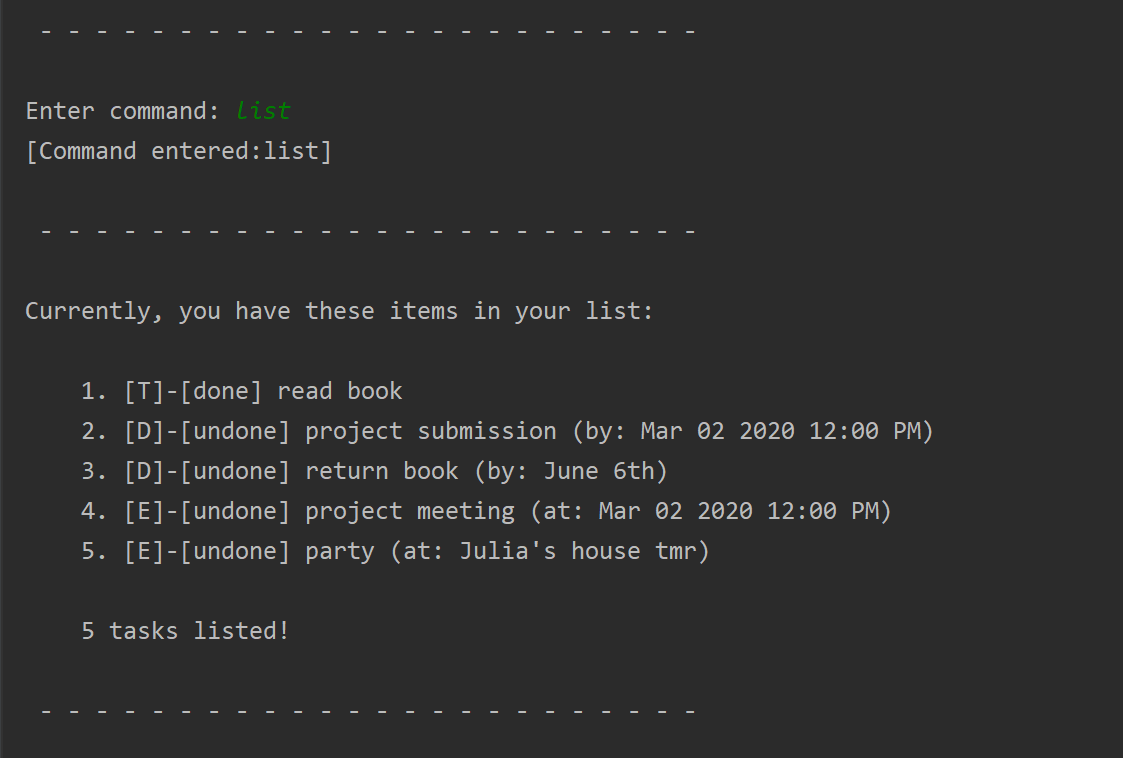
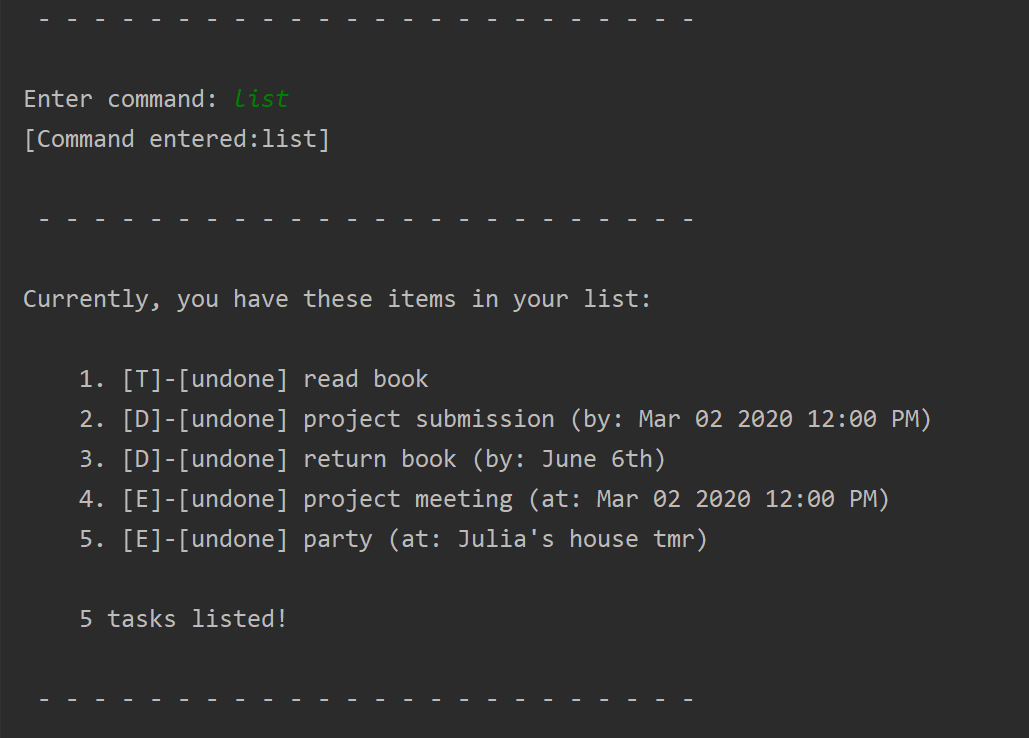
Change list image

diff --git a/docs/README.md b/docs/README.md
@@ -1,12 +1,34 @@
-# User Guide for Jarvis
+# :calendar:  Jarvis Task Manager - User Guide 
 
-## Features 
+* [1. Introduction](#1-introduction)
+* [2. Features](#2-features)
+    + [2.1. Adding a task](#21-add-a-task)
+    + [2.2. Marking a task done](#22-mark-task-as-done)
+    + [2.3. Listing all tasks](#23-list)
+    + [2.4. Find task by keyword](#24-find)
+    + [2.5. Delete a task](#25-delete)
+    + [2.6. Filter list by category](#26-filter)
+    + [2.7. Clear all tasks](#27-clear)
+    + [2.8. Viewing Help](#28-help)
+- [3. Command Summary](#3-command-summary)       
+     
 
-### Feature 1. Add a task
+## 1. Introduction
 
-## Usage
+Jarvis is for those who *prefer to use a desktop app for managing their tasks*. More importantly, Jarvis is *strictly optimized for those who prefer to work with a Command Line Interface* (CLI). So, if you can type fast, you can rely on Jarvis to get your task management done much quicker than many other traditional apps out there. Enjoy! 
 
-### `todo` - Adds a todo task
+## 2. Features
+
+*Command Format*
+* Words in `UPPER_CASE` are the parameters to be supplied by the user e.g. in `todo [DESCRIPTION]`, `DESCRIPTION` is a parameter which can be used as `todo grab breakfast`.
+
+&nbsp;
+
+### 2.1 Add a task
+With Jarvis, you can add 3 different types of tasks: todo, deadline and event.
+
+
+#### 2.1.1 `todo` - Adds a todo task
 
 A todo type of task will be added to the current task list.
 
@@ -18,11 +40,11 @@ Example of usage:`todo read book`
 
 Expected outcome:
 
-<img src ="images/todo_example.png" width= "250">
+<img src ="images/todo_example.png" width = "400">
 
 &nbsp;
 
-### `deadline` - Adds a deadline task
+#### 2.1.2 `deadline` - Adds a deadline task
 
 A deadline type of task will be added to the current task list.
 
@@ -46,18 +68,18 @@ Example of usage:
 
 Expected outcome:
 
-<img src ="images/deadline_example.png" width= "350">
+<img src ="images/deadline_example.png" width= "400">
 
 Example of usage:
 `deadline return book /by June 6th`
 
 Expected outcome:
 
-<img src ="images/deadline_example1.png" width= "350">
+<img src ="images/deadline_example1.png" width="400">
 
 &nbsp;
 
-### `event` - Adds a event task
+#### 2.1.3 `event` - Adds a event task
 
 An event type of task will be added to the current task list.
 
@@ -81,11 +103,230 @@ Example of usage:
 
 Expected outcome:
 
-<img src ="images/event_example.png" width= "350">
+<img src = "images/event_example.png" width ="400">
 
 Example of usage:
 `event party /at Julia's house tmr`
 
 Expected outcome:
 
-<img src ="images/event_example1.png" width= "350">
+<img src = "images/event_example1.png" width = "400">
+
+&nbsp;
+
+### 2.2 Mark task as done
+#### `done` - Mark done
+Marks specified task as done.
+
+Format:
+ `done [INDEX]`
+
+> - Deletes the item at the specified index.
+
+>- The index refers to the index number shown in the displayed task list.
+
+>- The index **must** be a positive integer 1, 2, 3, …
+
+Example of usage:
+`done 1`
+
+Expected outcome:
+
+<img src= "images/done_example.png" width = "400">
+
+&nbsp;
+
+
+### 2.3 List
+#### `list` - Displays all tasks in list
+
+Format:
+ `list`
+
+
+Example of usage:
+`list`
+
+Expected outcome:
+
+<img src = "images/list_example.png" width = "400">
+
+&nbsp;
+
+### 2.4 Find 
+#### `find` - Find tasks that match keyword
+Find all tasks that match the given keyword
+
+Format:
+ `find [KEYWORD]`
+
+> - `[KEYWORD]` is matched with task `description`.
+> - Tasks with descriptions that have the `[KEYWORD]` are displayed. 
+
+
+Example of usage:
+`find book`
+
+Expected outcome:
+
+<img src = "images/find_example.png" width = "400">
+
+&nbsp;
+
+### 2.5 Delete
+#### `delete` - Deletes task from list
+Deletes specified task from list.
+
+Format:
+ `delete [INDEX]`
+
+> - Deletes the item at the specified index.
+
+>- The index refers to the index number shown in the displayed task list.
+
+>- The index **must** be a positive integer 1, 2, 3, …
+
+Example of usage:
+`delete 1`
+
+Expected outcome:
+
+<img src = "images/delete_example.png" width "400">
+
+&nbsp;
+
+### 2.6 Filter
+Allows you to filter your task list by 3 different categories: task type, done status and date.
+
+
+#### `filter` - Filters list according to category
+
+The task list is filtered according to the given category.
+
+Format: `filter [category]`
+> - Accepted values for categories include: `"todo"`,`"event"`,`"deadline"`,`DATE`
+>   - `DATE` **must** follow format: Month-Date
+>     - e.g. Mar 02
+
+
+Example of usage:`filter todo`
+> - Displays all todo tasks in list
+
+
+Expected outcome:
+
+<img src #"images/filter_todo_example.PNG" width# "400">
+
+
+Example of usage:`filter deadline`
+> - Displays all deadline tasks in list
+
+
+Expected outcome:
+
+<img src = "images/filter_deadline_example.PNG" width = "400">
+
+
+Example of usage:`filter event`
+> - Displays all event tasks in list
+
+
+Expected outcome:
+
+<img src = "images/filter_event_example.PNG" width = "400">
+
+Example of usage:`filter DATE`
+> - Displays all deadlines/events occurring on a specific date. 
+
+| :bulb: | Jarvis is smart enough to list events/ deadlines occurring on the same day in chronological order! |
+| ------------- | ------------- |
+
+&nbsp;
+
+
+### 2.7 Clear
+#### `clear` - Clear all tasks in list
+Clears and deletes **all** task in list
+
+Format:
+ `clear`
+
+
+Example of usage:
+`clear`
+
+Expected outcome:
+
+<img src = "images/clear_example.PNG" width =  "400">
+
+&nbsp;
+
+
+### 2.8 Help
+#### `help` - Displays a help list
+The help list contains information about all accepted commands.
+
+It will be displayed if the input command is invalid.
+
+Format:
+ `help`
+
+
+Example of usage:
+`help`
+
+Expected outcome:
+
+<img src #"images/help.PNG" width# "400">
+
+&nbsp;
+
+
+### 2.9 Exit Program
+#### `bye` - Exits the program
+Saves task list to a local storage file in the computer and exits program.
+
+
+Format:
+ `bye`
+
+
+Example of usage:
+`bye`
+
+Expected outcome:
+
+<img src = "images/bye.png" width = "400">
+
+&nbsp;
+
+## 3. Command Summary 
+
+* *Todo* : `todo DESCRIPTION` \
+e.g. `todo read book`
+
+* *Deadline* : `deadline DESCRIPTION /by [DUE DATE & TIME]` \
+e.g. `deadline project submission /by 2020-03-02 1200`   **OR**   `deadline return book /by June 6th`
+
+* *Event* : `event DESCRIPTION /by [EVENT TIME & VENUE]` \
+e.g. `event project meeting /at 2020-03-02 1200` **OR** `event party /at Julia's house tmr`
+
+* *Mark* : `done [INDEX]` \
+e.g. `done 1`
+
+* *List* : `list` 
+
+* *Find* : `find KEYWORD` \
+e.g. `find book`
+
+* *Delete* : `delete [INDEX]` 
+e.g. `delete 3`
+
+* *Filter* : `filter [CATEGORY]` \
+e.g. `filter todo` **OR** `filter deadline` **OR** `filter event` **OR** `filter Mar 02`
+
+* *Clear* : `clear`
+
+* *Help* : `help`
+
+* *Exit* : `bye`
